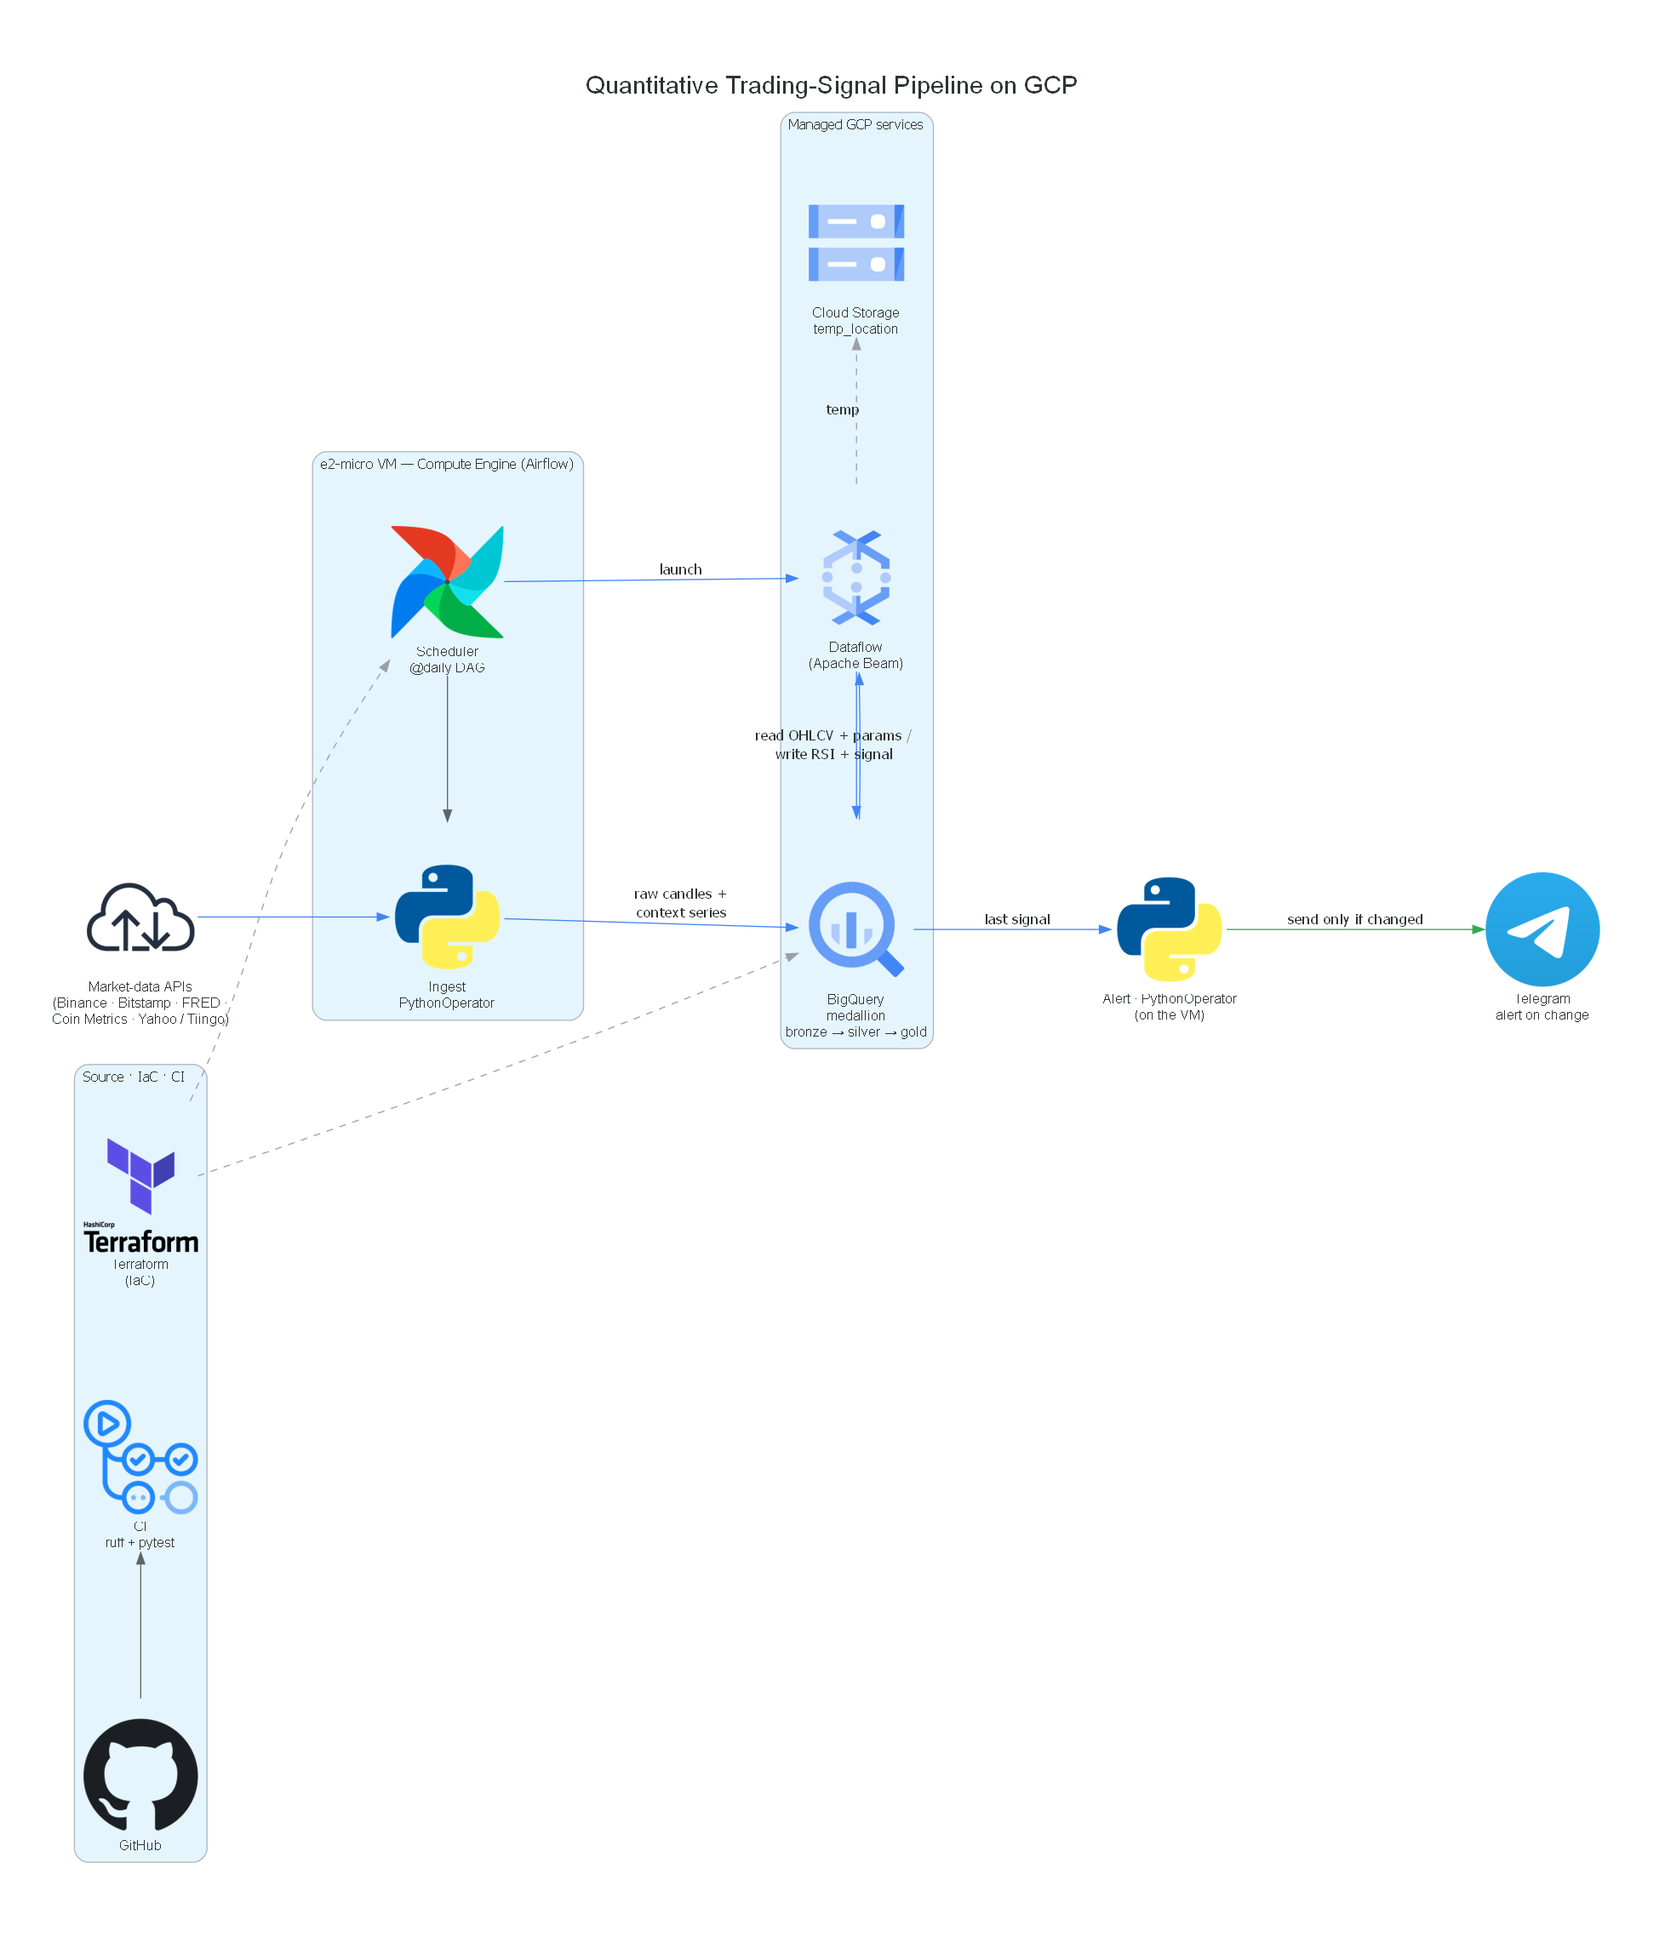
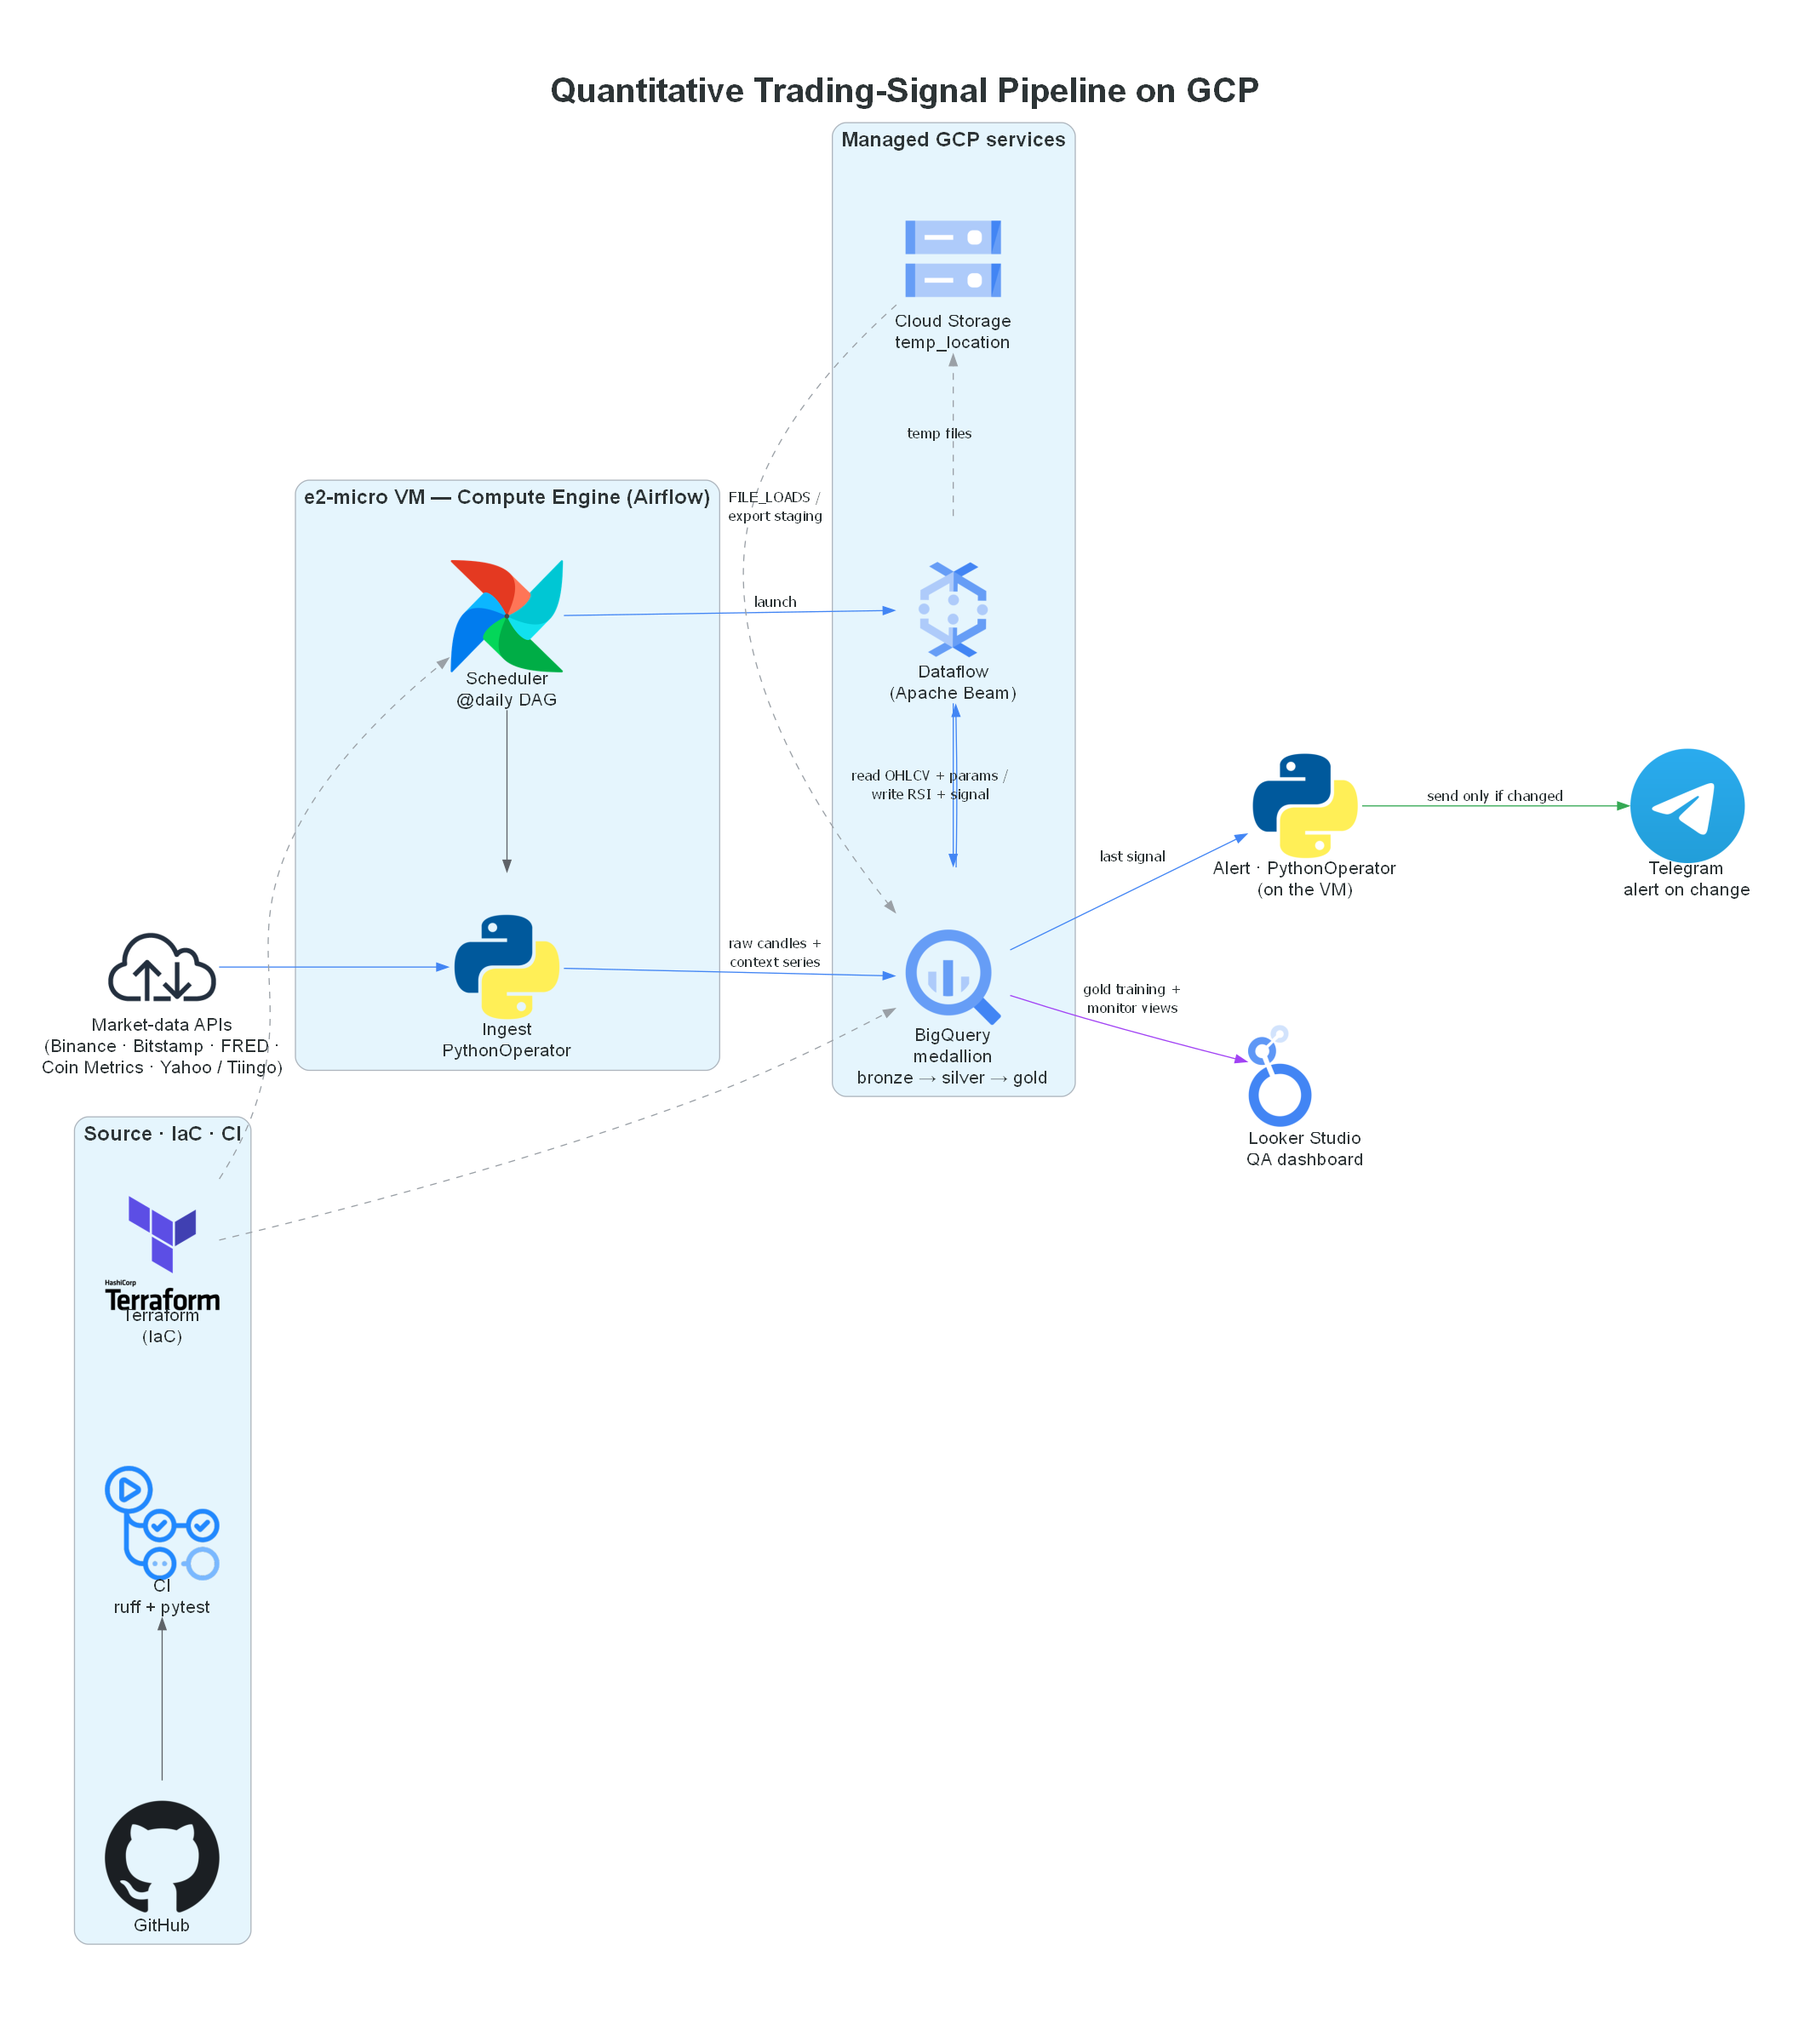
Refine architecture diagram: Looker gold views + GCS staging
- Add a Looker Studio QA dashboard node fed by the gold training/monitor
  views (analytics branch off BigQuery, alongside the signal branch).
- Connect Cloud Storage temp_location to BigQuery (FILE_LOADS / export
  staging), reflecting that Beam BigQuery I/O stages through GCS in both
  directions (export on read, FILE_LOADS on write) instead of GCS hanging
  off Dataflow alone.
- Enlarge node/edge/cluster fonts so the PNG stays legible when scaled in
  the README.

Diagram is generated as code with assets/architecture.py and embedded at
the top of README.md.

Changed region(s): [[0.0312, 0.0312, 0.7485, 0.967], [0.8108, 0.3743, 0.9668, 0.5303]]

diff --git a/assets/architecture.py b/assets/architecture.py
@@ -22,7 +22,7 @@ for _candidate in (r"C:\Program Files\Graphviz\bin", r"C:\Program Files (x86)\Gr
         os.environ["PATH"] = _candidate + os.pathsep + os.environ.get("PATH", "")
 
 from diagrams import Cluster, Diagram, Edge  # noqa: E402
-from diagrams.gcp.analytics import Bigquery, Dataflow  # noqa: E402
+from diagrams.gcp.analytics import Bigquery, Dataflow, Looker  # noqa: E402
 from diagrams.gcp.compute import ComputeEngine  # noqa: E402
 from diagrams.gcp.storage import GCS  # noqa: E402
 from diagrams.onprem.ci import GithubActions  # noqa: E402
@@ -35,18 +35,21 @@ from diagrams.saas.chat import Telegram  # noqa: E402
 
 # Brand-ish styling for a clean, Google-docs-like look.
 GRAPH_ATTR = {
-    "fontname": "Helvetica",
-    "fontsize": "22",
+    "fontname": "Helvetica-Bold",
+    "fontsize": "30",
     "labelloc": "t",
     "bgcolor": "white",
     "pad": "0.8",
-    "nodesep": "0.9",
-    "ranksep": "1.5",
+    "nodesep": "1.0",
+    "ranksep": "1.6",
     "splines": "spline",
     "compound": "true",
 }
-NODE_ATTR = {"fontname": "Helvetica", "fontsize": "12"}
-EDGE_ATTR = {"fontname": "Helvetica", "fontsize": "10", "color": "#5f6368"}
+# Cluster (sub-graph) label styling — larger so it stays legible when the PNG
+# is scaled down inside the README.
+CLUSTER_ATTR = {"fontname": "Helvetica-Bold", "fontsize": "18"}
+NODE_ATTR = {"fontname": "Helvetica", "fontsize": "16"}
+EDGE_ATTR = {"fontname": "Helvetica", "fontsize": "15", "color": "#5f6368"}
 
 # Edge styles: solid blue = data flow, dashed grey = provisioning (IaC).
 DATA = Edge(color="#4285F4")
@@ -66,12 +69,12 @@ with Diagram(
 ):
     sources = Internet("Market-data APIs\n(Binance · Bitstamp · FRED ·\nCoin Metrics · Yahoo / Tiingo)")
 
-    with Cluster("e2-micro VM — Compute Engine (Airflow)"):
+    with Cluster("e2-micro VM — Compute Engine (Airflow)", graph_attr=CLUSTER_ATTR):
         scheduler = Airflow("Scheduler\n@daily DAG")
         ingest = Python("Ingest\nPythonOperator")
         scheduler >> Edge(color="#5f6368", constraint="false") >> ingest
 
-    with Cluster("Managed GCP services"):
+    with Cluster("Managed GCP services", graph_attr=CLUSTER_ATTR):
         bq = Bigquery("BigQuery\nmedallion\nbronze → silver → gold")
         df = Dataflow("Dataflow\n(Apache Beam)")
         gcs = GCS("Cloud Storage\ntemp_location")
@@ -80,8 +83,10 @@ with Diagram(
     # so the cluster box does not span ranks (it sits late in the flow).
     alert = Python("Alert · PythonOperator\n(on the VM)")
     telegram = Telegram("Telegram\nalert on change")
+    # Gold training/monitor views consumed by a Looker Studio dashboard.
+    looker = Looker("Looker Studio\nQA dashboard")
 
-    with Cluster("Source · IaC · CI"):
+    with Cluster("Source · IaC · CI", graph_attr=CLUSTER_ATTR):
         repo = Github("GitHub")
         ci = GithubActions("CI\nruff + pytest")
         iac = Terraform("Terraform\n(IaC)")
@@ -94,10 +99,15 @@ with Diagram(
     scheduler >> Edge(color="#4285F4", label="launch") >> df
     bq >> Edge(color="#4285F4", label="last signal") >> alert
     alert >> Edge(color="#34A853", label="send only if changed") >> telegram
+    bq >> Edge(color="#A142F4", label="gold training +\nmonitor views") >> looker
 
     # --- Same-rank / return / provisioning edges: constraint="false" ---
     df >> Edge(color="#4285F4", label="read OHLCV + params /\nwrite RSI + signal", constraint="false") >> bq
     bq >> Edge(color="#4285F4", constraint="false") >> df
-    df >> Edge(color="#9aa0a6", style="dashed", label="temp", constraint="false") >> gcs
+    # GCS temp_location is the staging intermediary for BigQuery I/O: reads
+    # export to GCS, writes stage temp files there for the FILE_LOADS load job.
+    df >> Edge(color="#9aa0a6", style="dashed", label="temp files", constraint="false") >> gcs
+    gcs >> Edge(color="#9aa0a6", style="dashed", dir="both",
+                label="FILE_LOADS /\nexport staging", constraint="false") >> bq
     iac >> Edge(color="#9aa0a6", style="dashed", constraint="false") >> bq
     iac >> Edge(color="#9aa0a6", style="dashed", constraint="false") >> scheduler
